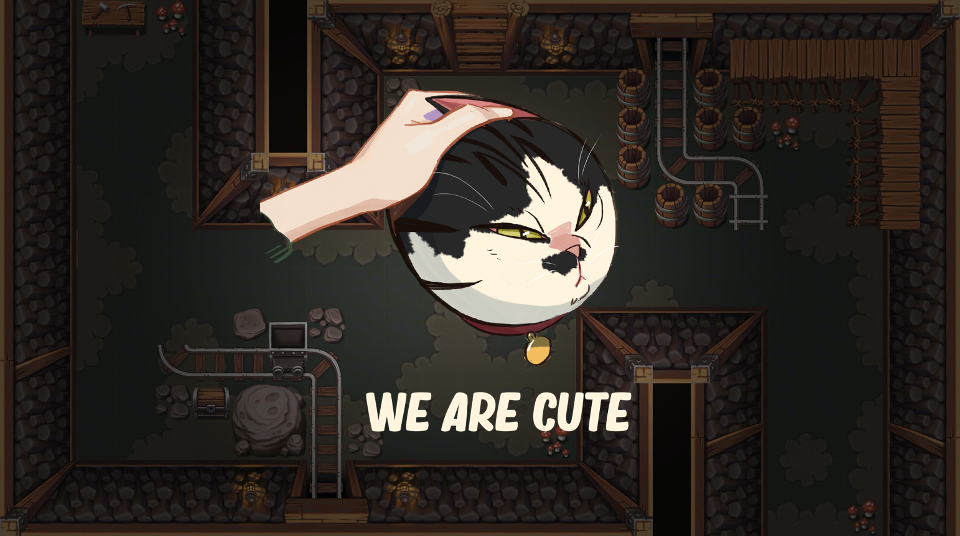
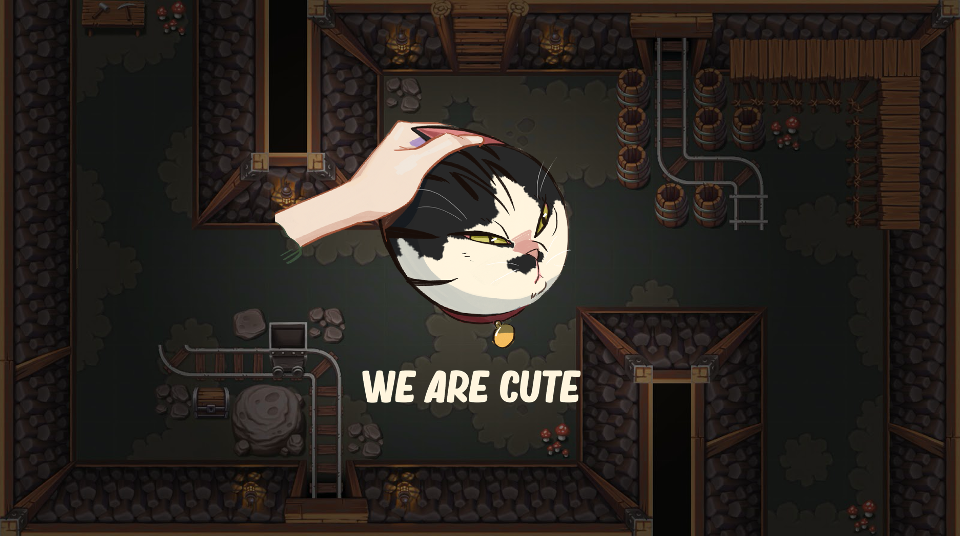
attack 이미지

Changed region(s): [[0.25, 0.1493, 0.6562, 0.806]]

diff --git a/index.html b/index.html
@@ -21,10 +21,10 @@ bottom_image: https://unsplash.it/2000/1322?a=.png
 		<div class="container flex">
 			<div class="text">
 				<h2 class="editable">어택 투게더</h2>
-				<p class="editable">Making news friends in the adult world is hard. Frisco is the perfect filter matching you the most interesting people in your area.</p>
+				<p class="editable">경쟁적인 PVP게임에 아닌, 협동이 강조된 실시간 모바일 게임 <br> 멀티를 통해 단시간 즐길 수 있는 협력형 헌팅 게임</p>
 			</div>
 			<div class="image">
-				<img class="editable" src="http://placehold.it/650x1300" alt="Screenshot" />
+				<img class="editable" src="https://kaoraswoo.github.io/images/home/attack.png" alt="Screenshot" />
 			</div>
 		</div>
 	</section>

diff --git a/about.html b/about.html
@@ -8,7 +8,7 @@ image: https://source.unsplash.com/BcoGknSqlDc/2000x1322?a=.png
 	<div class="inner-hero text-container">
 		<div class="hero-text-container">
 			<h1 class="editable">Our Story</h1>
-			<p class="subtext editable">We have an extremely talented team whose sole goal is to bring you closer to the people around you.</p>
+			<p class="subtext editable">Attack Together로 인디게임 첫도전을 하면서 경험과 실력을 쌓아가고 있습니다. 일이 안풀릴 때는 ‘내가 귀여운 탓인가'라고 생각하며 위로합니다</p>
 		</div>
 	</div>
 </section>
